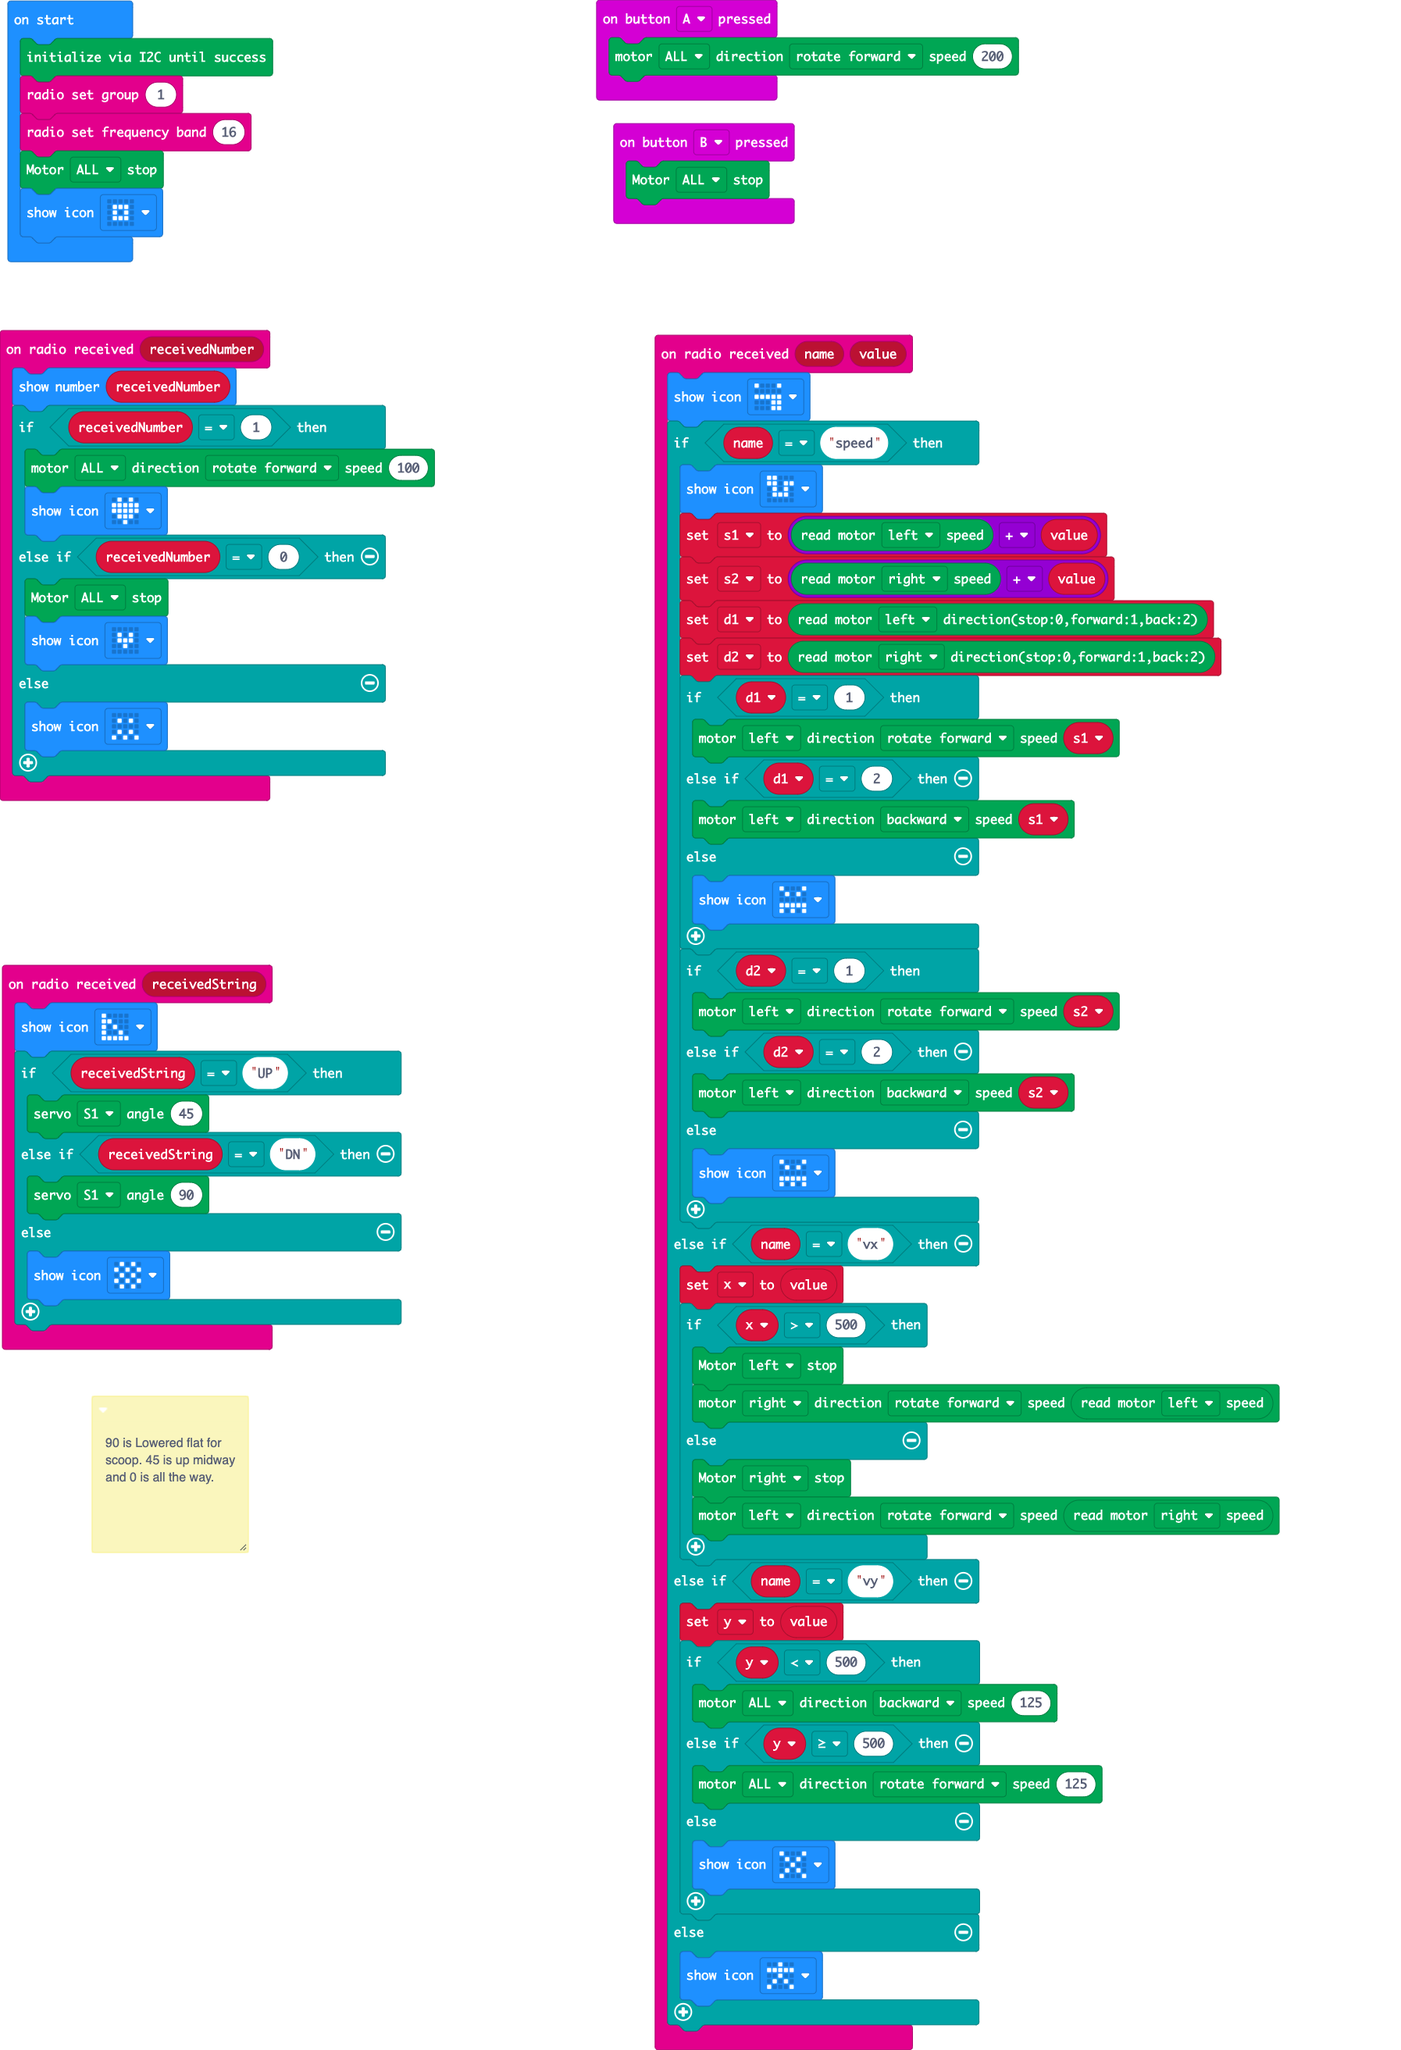
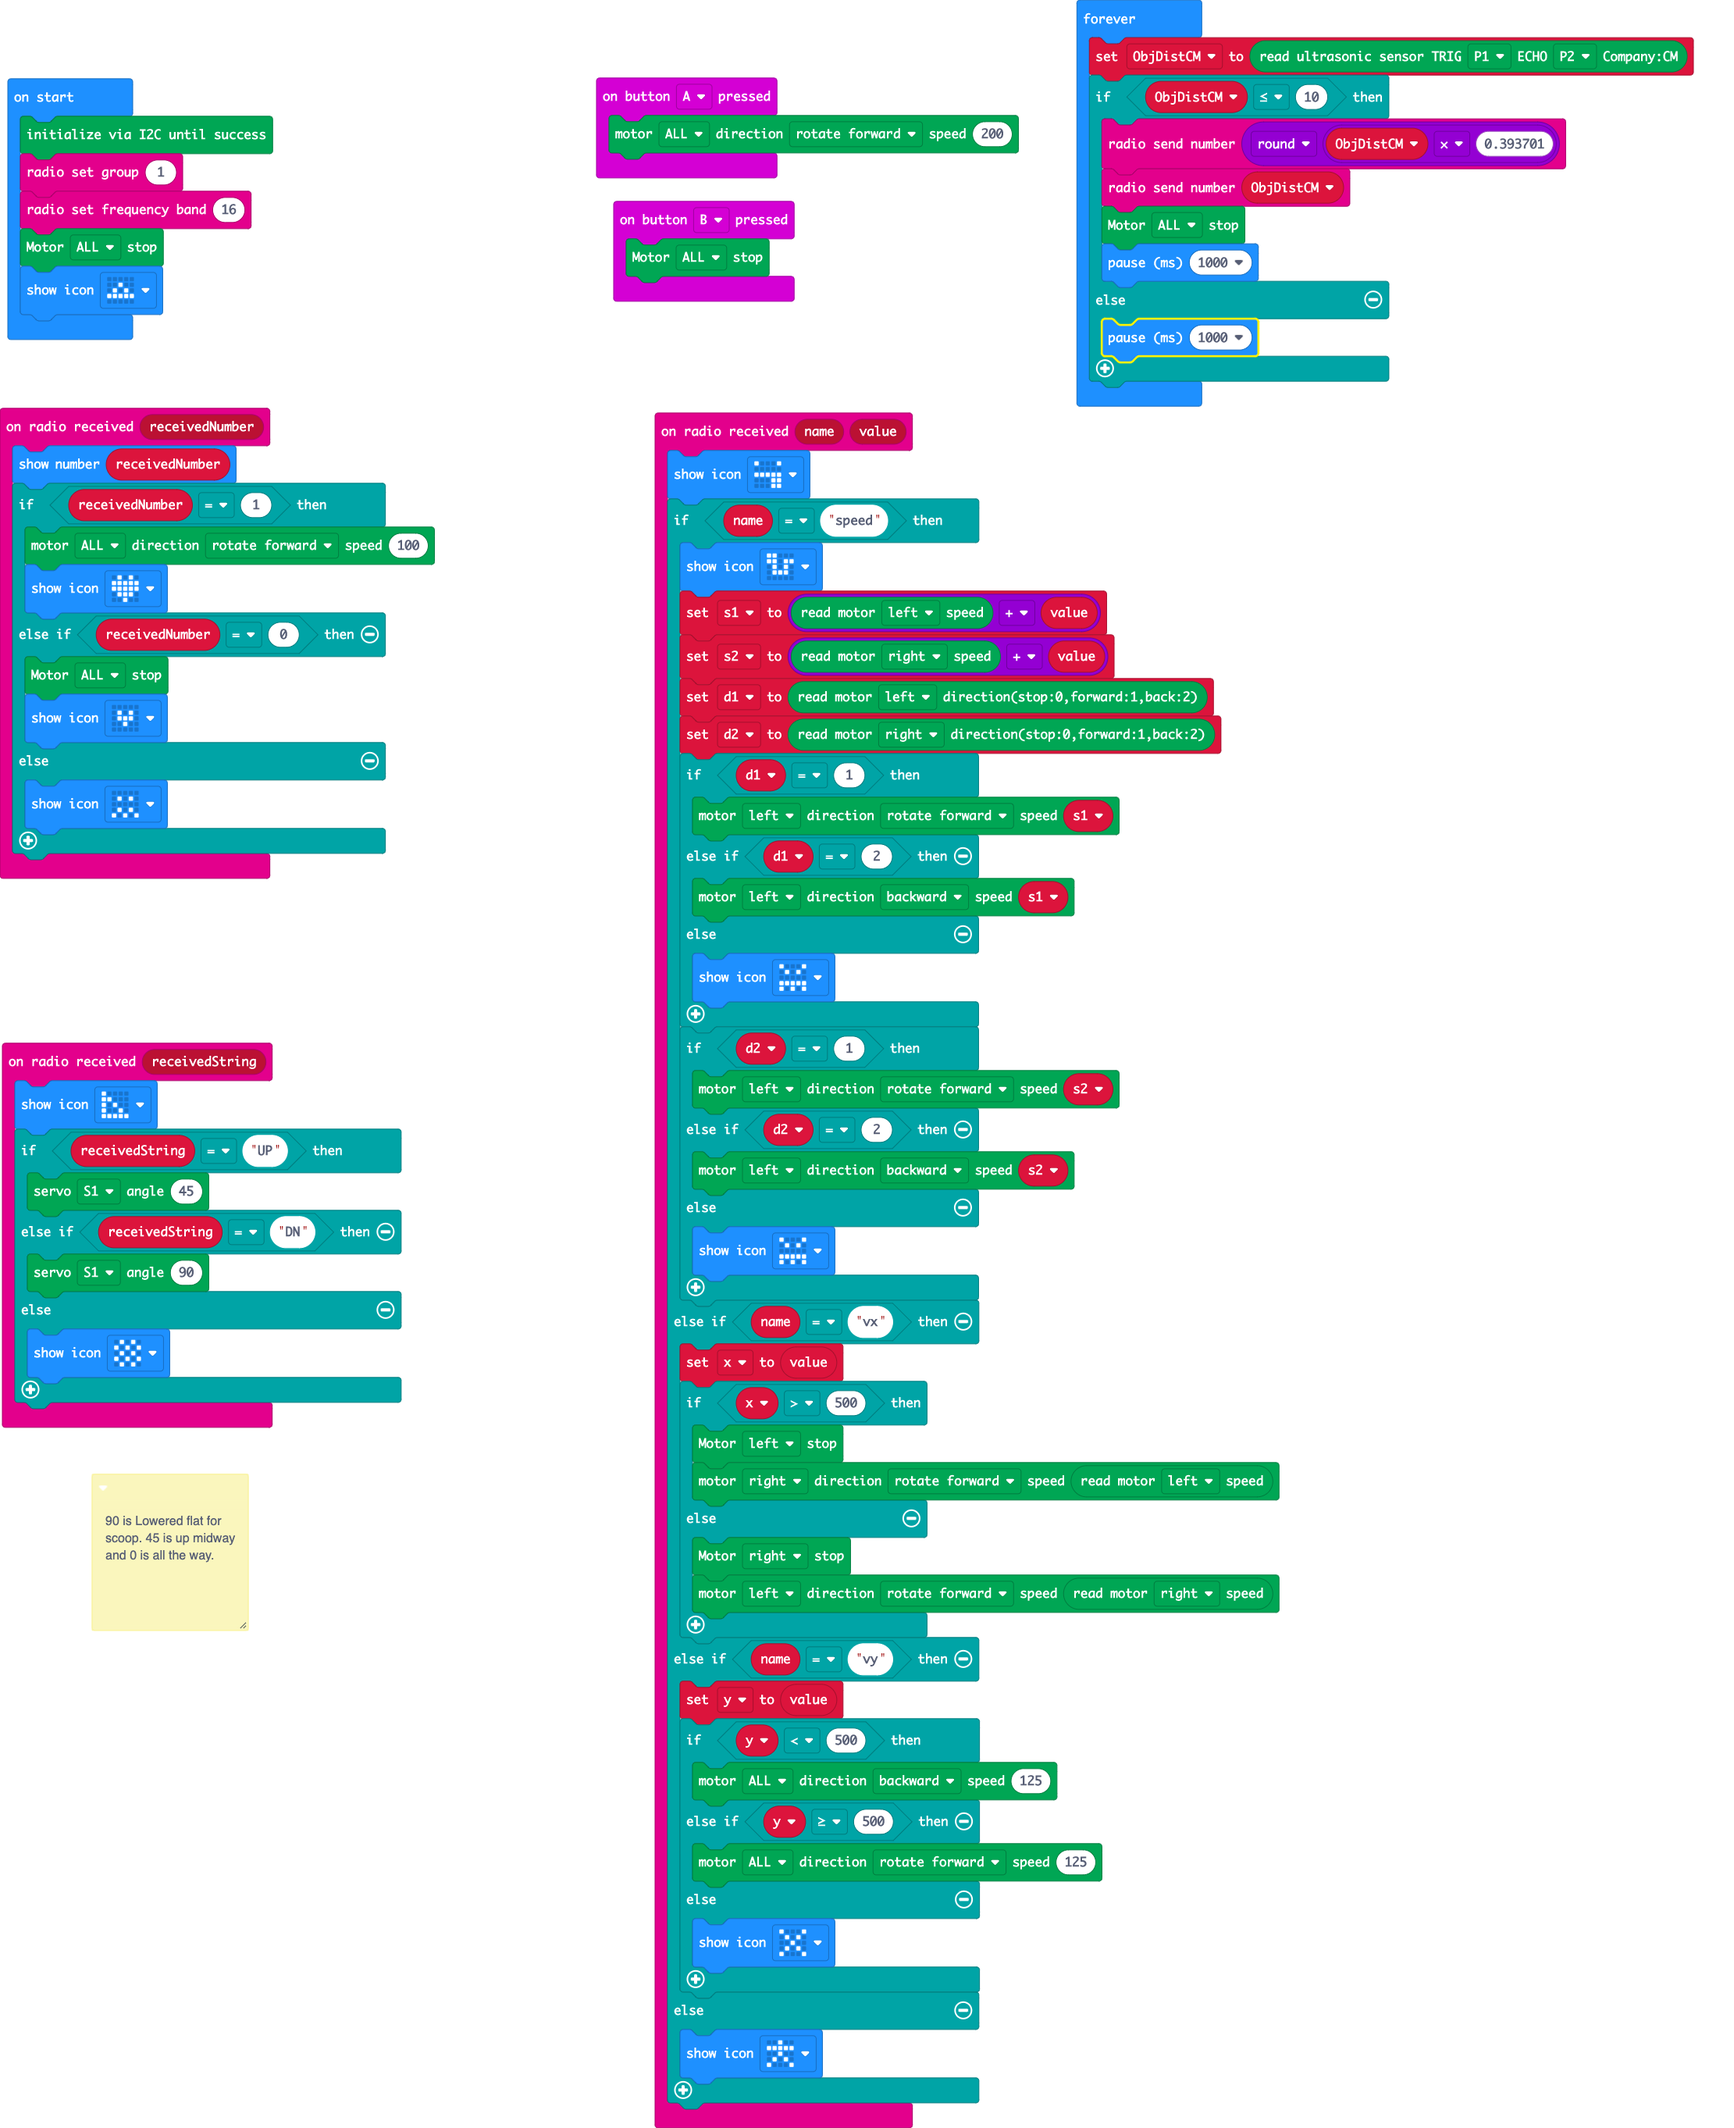
use ultrasonic sensor to stop and notify joystick controller

diff --git a/main.ts b/main.ts
@@ -73,6 +73,7 @@ radio.onReceivedValue(function (name, value) {
         basic.showIcon(IconNames.StickFigure)
     }
 })
+let ObjDistCM = 0
 let y = 0
 let x = 0
 let d2 = 0
@@ -83,4 +84,15 @@ DFRobotMaqueenPlus.I2CInit()
 radio.setGroup(1)
 radio.setFrequencyBand(16)
 DFRobotMaqueenPlus.mototStop(Motors.ALL)
-basic.showIcon(IconNames.SmallSquare)
+basic.showIcon(IconNames.Triangle)
+basic.forever(function () {
+    ObjDistCM = DFRobotMaqueenPlus.ultraSonic(PIN.P1, PIN.P2)
+    if (ObjDistCM <= 10) {
+        radio.sendNumber(Math.round(ObjDistCM * 0.393701))
+        radio.sendNumber(ObjDistCM)
+        DFRobotMaqueenPlus.mototStop(Motors.ALL)
+        basic.pause(1000)
+    } else {
+        basic.pause(1000)
+    }
+})
